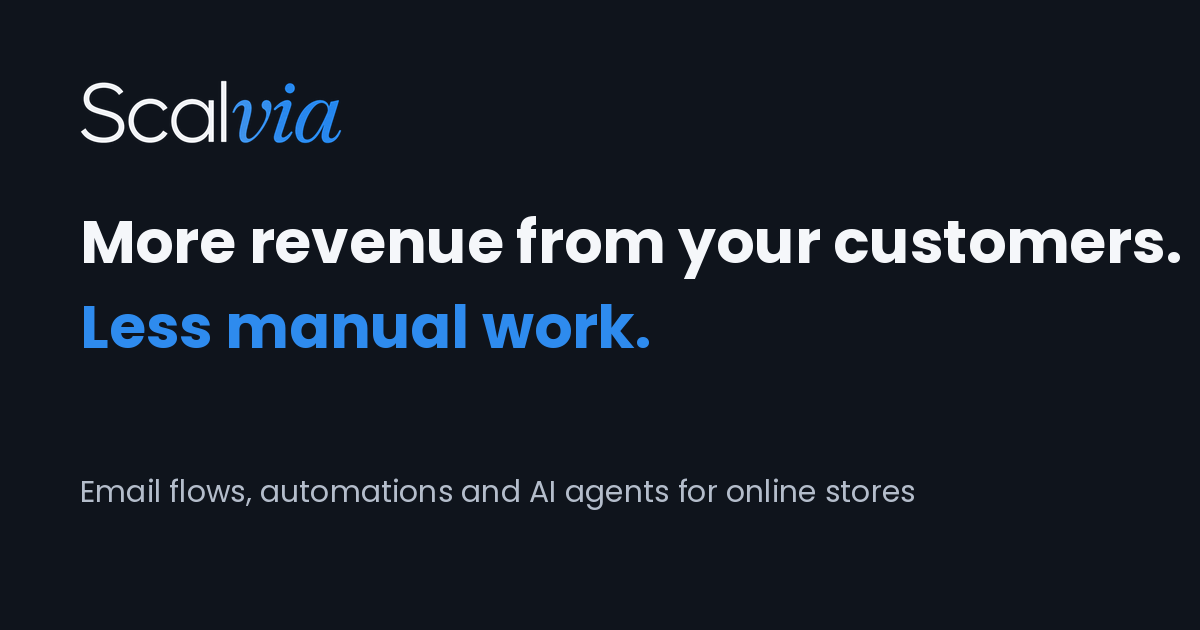
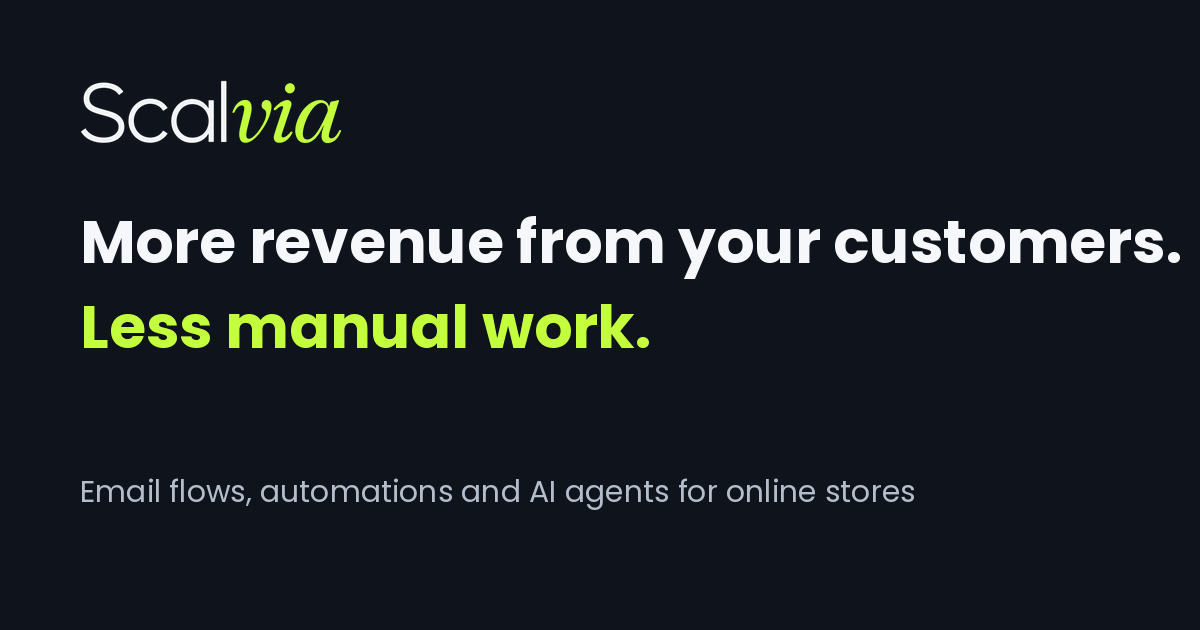
Remove the Mix it up and shoe emails
Taken out of the homepage reel, the closing collage and the work page,
and the image files deleted. The reel repeats its four remaining cards so
the loop stays seamless on wide screens. Share image recoloured to green.

Claude-Session: https://claude.ai/code/session_01RDEYwZjT6HQkRcYKagyH3U

Changed region(s): [[0.0617, 0.4825, 0.555, 0.573], [0.185, 0.1206, 0.2775, 0.2413]]

diff --git a/index.html b/index.html
@@ -91,12 +91,14 @@
   </div>
   <div class="reel-stage">
     <div class="reel-track" id="reel">
-      <figure class="reel-card"><img src="kunst-mixen.webp" alt="Wall art campaign email: Mix it up" loading="lazy" decoding="async" width="600" height="3202"></figure>
       <figure class="reel-card"><img src="sport-set.webp" alt="Activewear email announcing a new matching set" loading="lazy" decoding="async" width="346" height="2000"></figure>
-      <figure class="reel-card"><img src="schoenen.webp" alt="Shoe store email with customer stories" loading="lazy" decoding="async" width="600" height="2211"></figure>
       <figure class="reel-card"><img src="slaap-lookbook.webp" alt="Sleepwear lookbook email" loading="lazy" decoding="async" width="234" height="2000"></figure>
       <figure class="reel-card"><img src="mode-kerst.webp" alt="Menswear Christmas sale email" loading="lazy" decoding="async" width="361" height="2000"></figure>
       <figure class="reel-card"><img src="kunst-rust.webp" alt="Calm wall art campaign email" loading="lazy" decoding="async" width="600" height="1829"></figure>
+      <figure class="reel-card" aria-hidden="true"><img src="sport-set.webp" alt="" loading="lazy" decoding="async" width="346" height="2000"></figure>
+      <figure class="reel-card" aria-hidden="true"><img src="slaap-lookbook.webp" alt="" loading="lazy" decoding="async" width="234" height="2000"></figure>
+      <figure class="reel-card" aria-hidden="true"><img src="mode-kerst.webp" alt="" loading="lazy" decoding="async" width="361" height="2000"></figure>
+      <figure class="reel-card" aria-hidden="true"><img src="kunst-rust.webp" alt="" loading="lazy" decoding="async" width="600" height="1829"></figure>
     </div>
   </div>
 </section>
@@ -500,9 +502,9 @@
   <div class="inner">
     <div class="close-card">
       <div class="collage" aria-hidden="true">
-        <img src="hero-kunst-mixen.webp" alt="" loading="lazy" width="480" height="800">
+        <img src="mode-kerst.webp" alt="" loading="lazy" width="361" height="2000">
         <img src="sport-set.webp" alt="" loading="lazy" width="346" height="2000">
-        <img src="hero-schoenen.webp" alt="" loading="lazy" width="480" height="800">
+        <img src="hero-kunst-rust.webp" alt="" loading="lazy" width="480" height="800">
         <img src="slaap-lookbook.webp" alt="" loading="lazy" width="234" height="2000">
       </div>
       <div class="close-body">

diff --git a/work.html b/work.html
@@ -35,7 +35,7 @@
 <section class="page-head band">
   <div class="inner">
     <h1>Work</h1>
-    <p class="lede">Results and emails for online stores in shoes, wall art, fashion, activewear and sleepwear. Client names are kept private.</p>
+    <p class="lede">Results and emails for online stores in wall art, fashion, activewear and sleepwear. Client names are kept private.</p>
   </div>
 </section>
 
@@ -62,19 +62,9 @@
     </div>
     <div class="mails">
       <figure class="mail">
-        <p class="subj"><span>Subject:</span> Mix it up</p>
-        <div class="scroll" tabindex="0" aria-label="Email: Mix it up"><img decoding="async" src="kunst-mixen.webp" alt="Campaign email with a collage of artworks under the heading Mix it up" loading="lazy" width="600" height="3202"></div>
-        <figcaption><b>Wall art.</b> Collection campaign about combining styles.</figcaption>
-      </figure>
-      <figure class="mail">
         <p class="subj"><span>Subject:</span> Bring calm to your home and mind</p>
         <div class="scroll" tabindex="0" aria-label="Email: Bring calm to your home and mind"><img decoding="async" src="kunst-rust.webp" alt="Calm campaign email with minimalist artworks in soft tones" loading="lazy" width="600" height="1829"></div>
         <figcaption><b>Wall art.</b> Theme campaign for the minimalist collection.</figcaption>
-      </figure>
-      <figure class="mail">
-        <p class="subj"><span>Subject:</span> Why fashion lovers choose us</p>
-        <div class="scroll" tabindex="0" aria-label="Email: Why fashion lovers choose us"><img decoding="async" src="schoenen.webp" alt="Email from a shoe store with sneakers and customer stories" loading="lazy" width="600" height="2211"></div>
-        <figcaption><b>Shoes.</b> Customer stories and bestsellers for anyone still deciding.</figcaption>
       </figure>
       <figure class="mail">
         <p class="subj"><span>Subject:</span> 30% off everything</p>

diff --git a/style.css b/style.css
@@ -762,8 +762,8 @@ input[type="range"]{background:linear-gradient(90deg,var(--sand) var(--p,10%),va
 .w2s figcaption b{color:var(--ink)}
 @media (max-width:680px){.w2s{grid-template-columns:minmax(0,1fr)}.w2s .arrow{transform:rotate(90deg);justify-self:center}}
 
-/* six mails on the work page */
-.mails{grid-template-columns:repeat(3,minmax(0,1fr))}
+/* four mails on the work page */
+.mails{grid-template-columns:repeat(4,minmax(0,1fr))}
 @media (max-width:960px){.mails{grid-template-columns:repeat(2,minmax(0,1fr))}}
 @media (max-width:680px){.mails{grid-template-columns:minmax(0,1fr)}}
 
